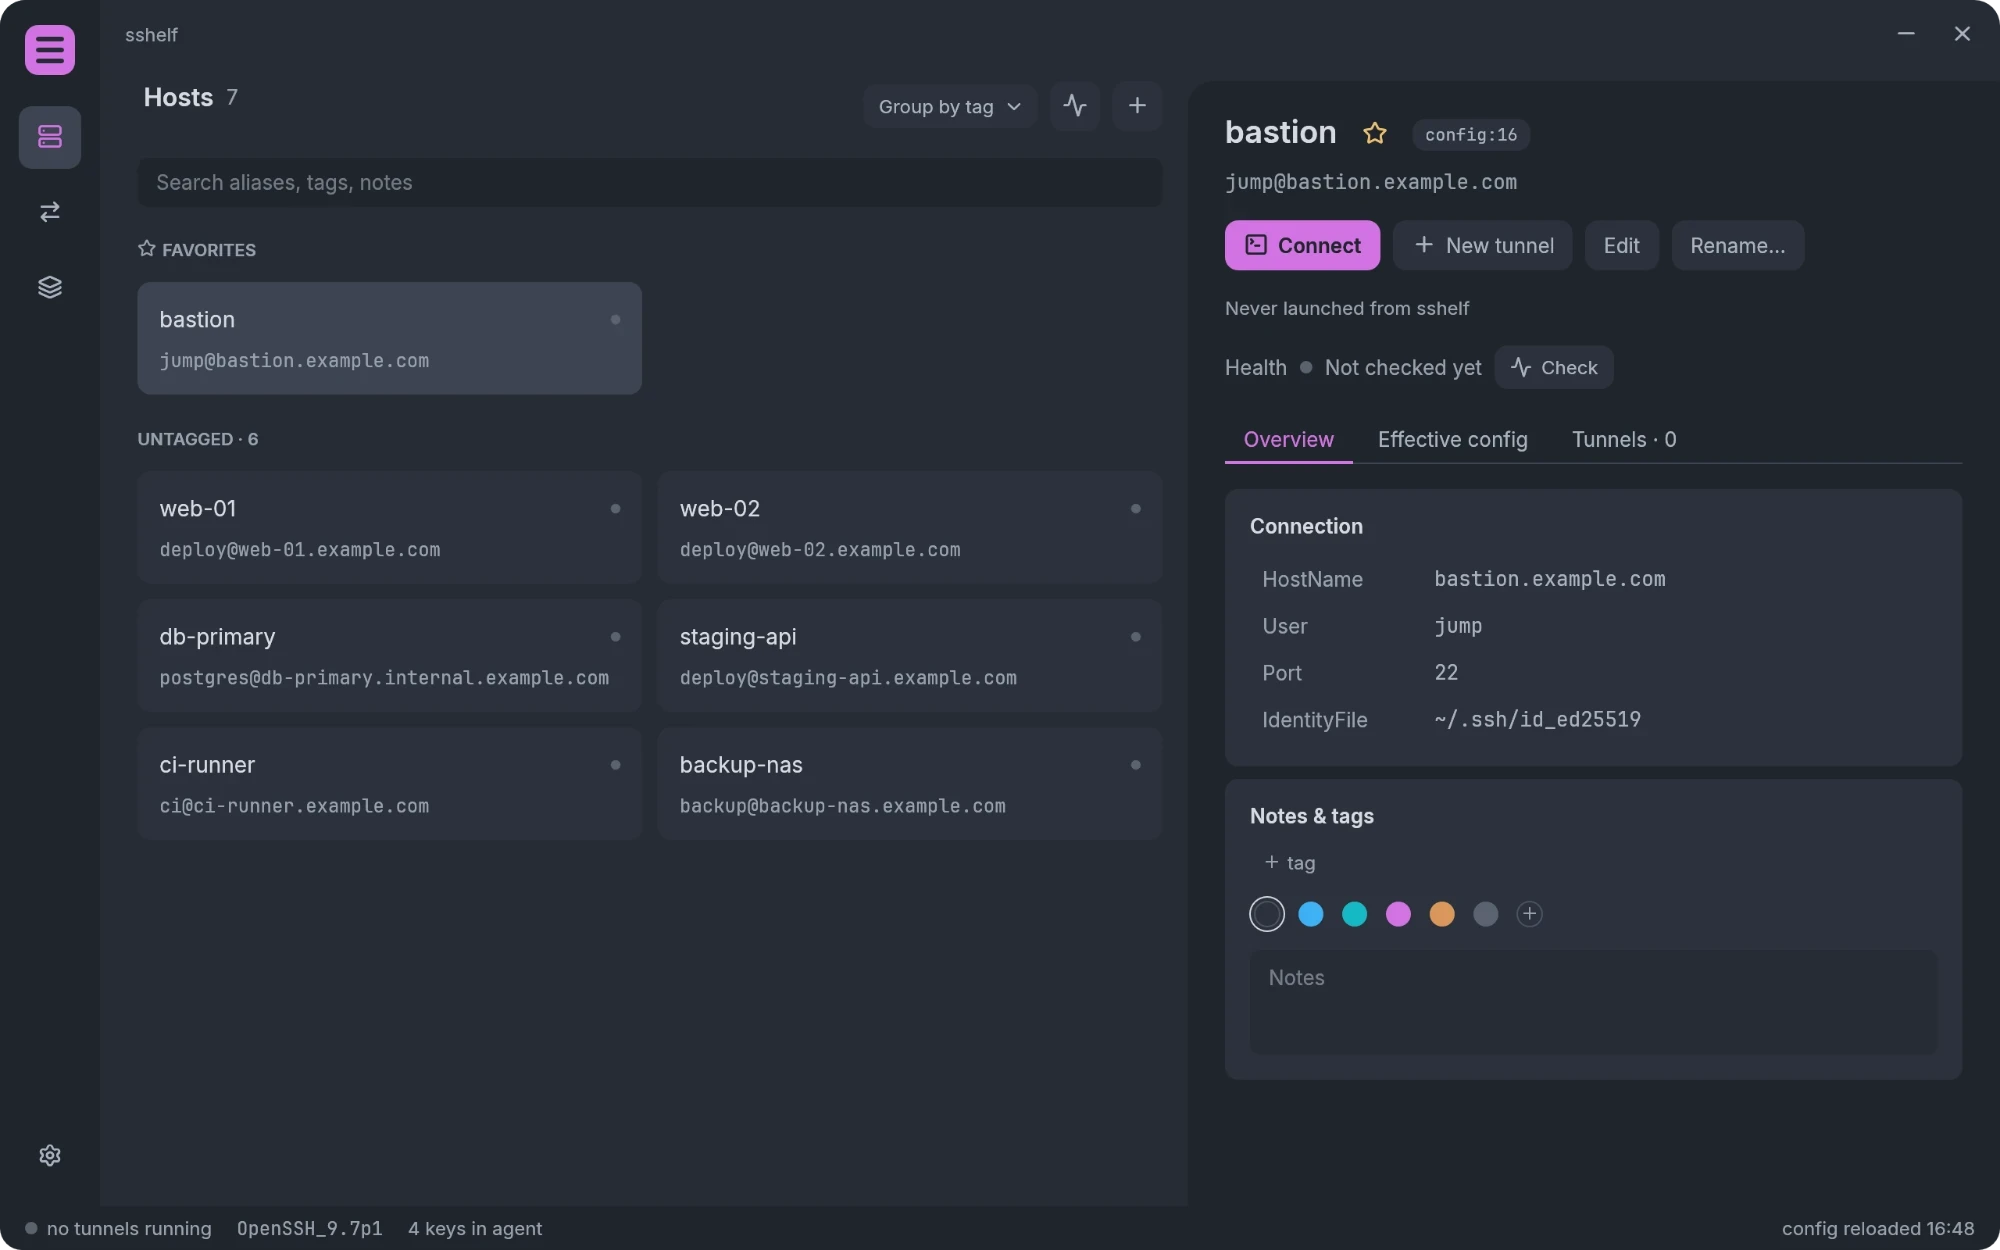
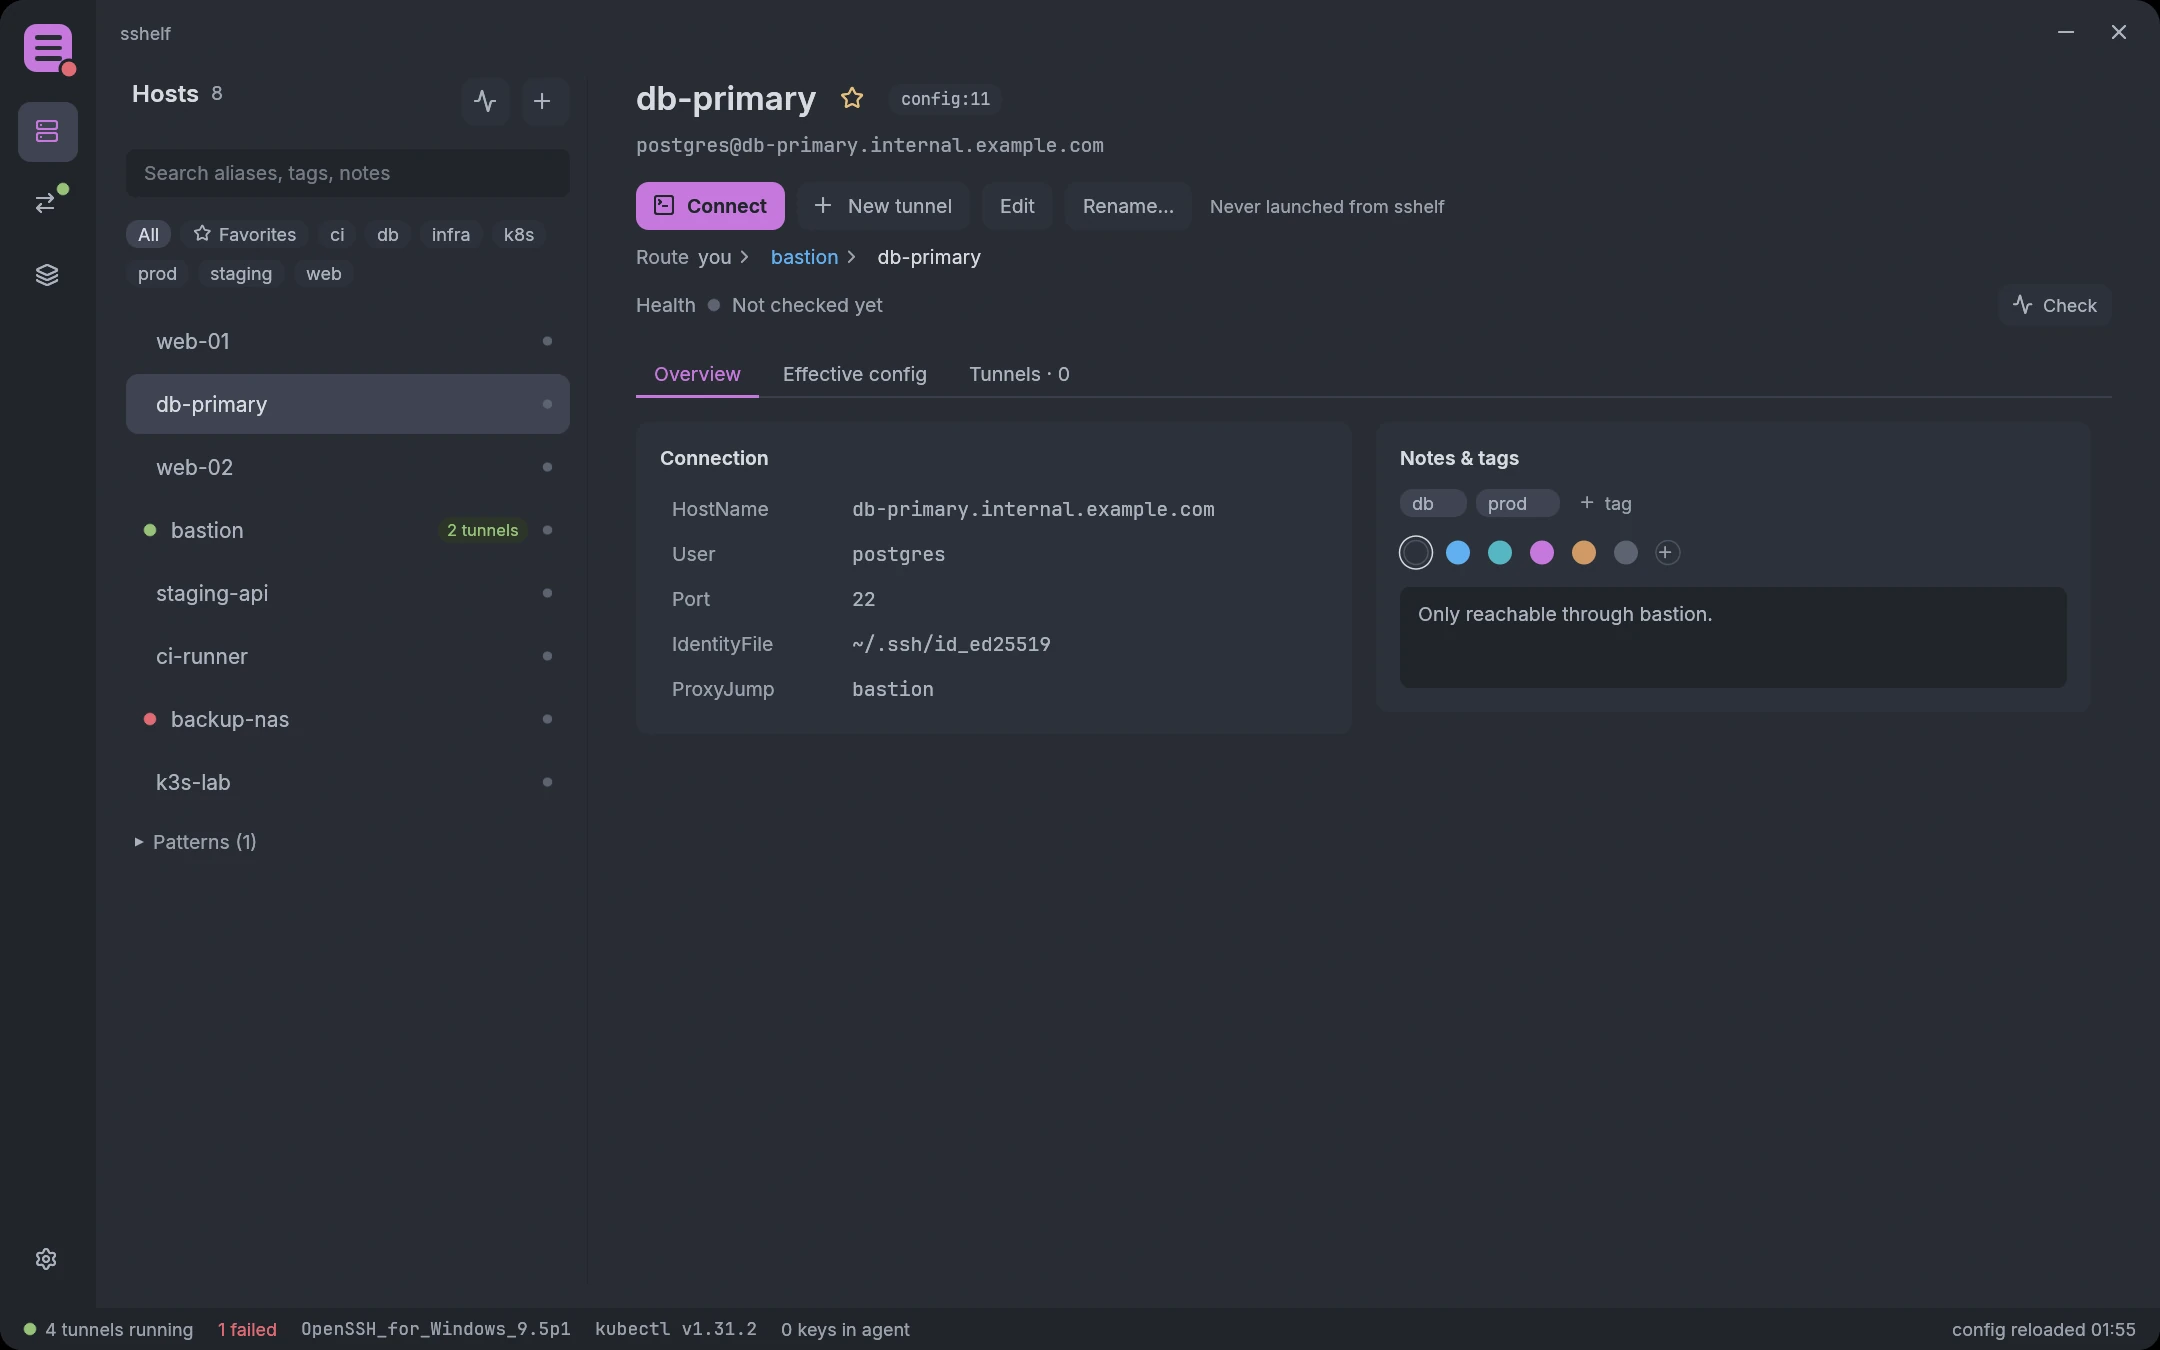
updating the readme with kubectl tunnels, groups and the update check, on new screenshots of made-up data;

diff --git a/README.md b/README.md
@@ -2,7 +2,7 @@
 
 > **How this project is made:** sshelf follows spec-driven development (SDD). I write and maintain the specification ([SPEC.md](SPEC.md)), and most of the code is written by an LLM (Claude Opus) with a human in the loop: I make the design decisions, review the changes and test each milestone.
 
-A desktop app for Windows, macOS and Linux that puts a visual layer over your real `~/.ssh/config`. Browse your hosts, see what ssh will actually do for each of them, edit them safely, open sessions, and keep port-forwarding tunnels running from one place.
+A desktop app for Windows, macOS and Linux that puts a visual layer over your real `~/.ssh/config`. Browse your hosts, see what ssh will actually do for each of them, edit them safely, open sessions, and keep port-forwarding tunnels running from one place: through ssh, or straight into a Kubernetes cluster with `kubectl port-forward`.
 
 ![Hosts with the detail of one host](docs/screenshots/hosts.webp)
 
@@ -37,13 +37,26 @@ It also helps the people around you: a newcomer can see what a host resolves to,
 
 ![Editing a host in raw text with the change preview](docs/screenshots/edit-host.webp)
 
-**Tunnels and groups**
-- Local (`-L`), remote (`-R`) and dynamic (`-D`) forwards, several per tunnel, in one `ssh` process.
-- Start and stop tunnels one by one, or as **groups** (e.g. "work on prod"); a group can start with sshelf.
-- Live state, logs, the reason a tunnel failed with a hint, and optional automatic reconnect.
+**Tunnels**
+- **ssh tunnels:** local (`-L`), remote (`-R`) and dynamic (`-D`) forwards, several per tunnel, in one `ssh` process.
+- Live state, logs, the reason a tunnel failed with a hint (a key that isn't accepted, a port that's taken), and optional automatic reconnect.
 - Tunnels keep running with the window closed: sshelf stays in the tray or menu bar, with a status dot and a menu to switch groups and connect.
 
-![A new tunnel](docs/screenshots/new-tunnel.webp)
+![Tunnels: ssh and kubectl tunnels side by side, one of them failed](docs/screenshots/tunnels.webp)
+
+**kubectl tunnels**
+- `kubectl port-forward` to a pod, a service or a deployment, run and watched like an ssh tunnel: start, stop, logs, groups, the tray.
+- The editor lists your contexts, namespaces and resources with their ports, suggests free local ports, and shows the exact command it will run.
+- A service or deployment tunnel reconnects to a new pod when the old one goes; kubectl's errors (not logged in, cluster unreachable, resource gone) come with a plain explanation and the fix.
+- sshelf uses your own `kubectl` and kubeconfig, and finds kubectl from Docker Desktop or Rancher Desktop too.
+
+![A new kubectl tunnel to a service](docs/screenshots/kubectl-tunnel.webp)
+
+**Groups**
+- Tunnels you use together, ssh and kubectl mixed, switched on and off as one (e.g. "shop dev stack"); a group can start with sshelf.
+- The group shows each tunnel's state and says when it runs only partly.
+
+![A group of an ssh tunnel and two kubectl tunnels](docs/screenshots/groups.webp)
 
 **Host keys**
 - Before a tunnel or a connect, the keys of every host on the way are checked without connecting; an unknown one is shown with its fingerprint and stored only when you accept it.
@@ -57,9 +70,11 @@ It also helps the people around you: a newcomer can see what a host resolves to,
 
 **And**
 - A short onboarding **tour** on sample hosts, with a fake ssh, so nothing touches your config or servers.
+- **Streamer mode** masks addresses, users, ports, paths and keys everywhere, for screen sharing.
+- **Update check:** sshelf asks GitHub for the latest release at most once a day and says when a newer one is out. It never downloads anything, sends nothing about you, and can be turned off in *Settings › Updates*.
 - Light on the eyes: a One Dark theme, and *Reduce motion* for no animations.
 
-![Settings](docs/screenshots/settings.webp)
+![Settings: an update is available](docs/screenshots/updates.webp)
 
 ## Install
 
@@ -80,7 +95,7 @@ Download the package for your system from the [releases](https://github.com/Veri
 1. Start sshelf. The first launch offers a **tour** of about six minutes on sample hosts, or goes straight to your own config. The tour can be repeated any time from *Settings › Help*.
 2. Pick a host to see its connection details and effective config; *Check* tells you whether it's reachable and your key is accepted.
 3. *Connect* opens a terminal; *Edit* changes the host (review the diff, then *Save*).
-4. Under **Tunnels**, *New tunnel* forwards ports through a host; *Save and start* runs it. Group tunnels you use together under **Groups** and switch them on and off with one click, also from the tray.
+4. Under **Tunnels**, *New tunnel* forwards ports through a host, or with the *kubectl* switch to a pod, service or deployment; *Save and start* runs it. Group tunnels you use together under **Groups** and switch them on and off with one click, also from the tray.
 5. Closing the window with tunnels running asks what to do; *Minimize to tray* keeps them running.
 
 sshelf keeps its own data (tags, notes, tunnels, groups, settings and backups) in versioned TOML files in its app folder, linked to your hosts by alias:
